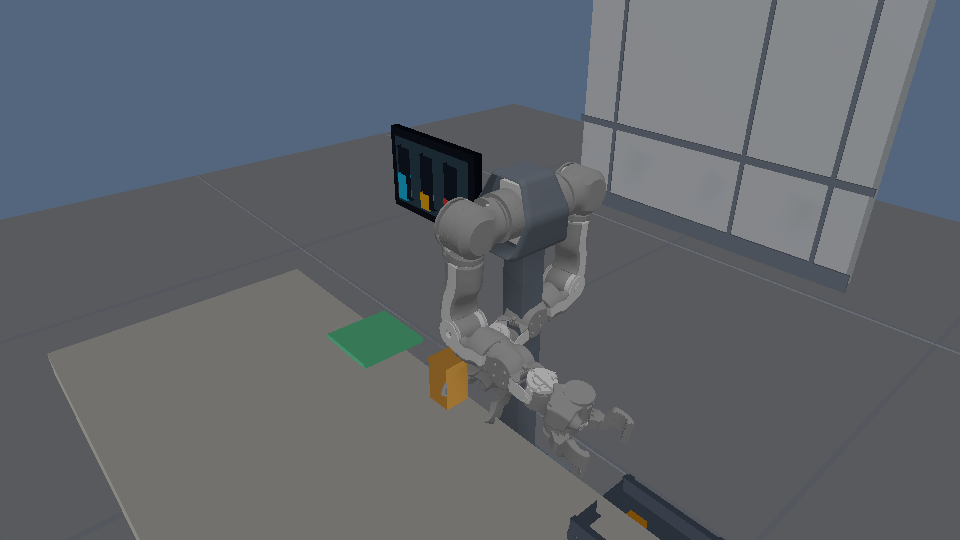
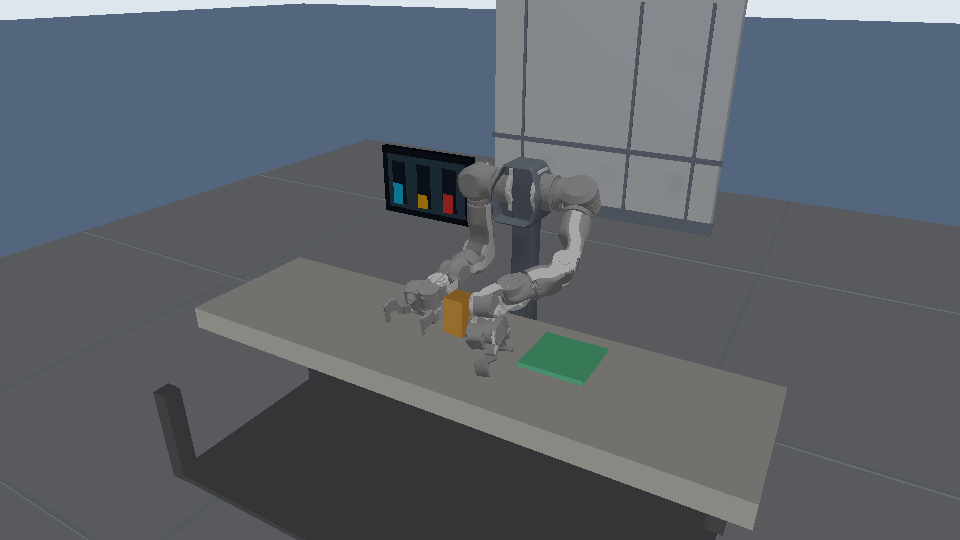
fix: turn the OpenArm torso to face the bench it works at (#338)
The two arm bases sit 6.2 cm apart along world z while the workbench runs
1.45 m along world x, so the shoulder line pointed at the bench and the
arms reached across it sideways. Measured at rest, every link of both
arms sat at x = 0.0000 and the shoulders at z = +-0.0935: the robot stood
square to its own work.

A quarter turn about the vertical fixes the stance and invalidates every
keypose with it, because a pose is a joint vector and the workspace turns
with the robot. All eighteen are re-solved by damped least squares
against the same URDF chain, and the bench, block and pad move with them.

Three things had to be measured rather than assumed:

* Reach. A turned torso gets 0.30 m in front of itself at bench height
  and runs out at 0.35 m, so the bench comes 0.12 m closer and the job
  happens within |x| <= 0.25 m. Probed before anything was changed,
  because none of the rest is worth doing if the arm cannot get there.
* The palm frame is not the grip. Aiming the palm at the block put the
  fingers on its bottom edge and 34 mm short of its centre; the grip sits
  0.1035 m below the palm origin and 0.0335 m ahead of it.
* Joint limits are not optional. Solved without them the left arm wanted
  +0.9 rad from a joint that stops at +0.175, so the servo clamped and
  the palm settled 0.29 m from where the solution said it would. The
  right arm's mirror of that joint runs to +3.3 and was never affected,
  which is why only one arm failed.
[…]

diff --git a/examples/90_showcase_captures/openarm.rs b/examples/90_showcase_captures/openarm.rs
@@ -58,15 +58,15 @@ const JOINT_FEEDBACK_STREAM: StreamId = StreamId::new(9_090);
 // side-on to turn it into visible screen-space width instead.
 const CAMERA: CameraEvidence = CameraEvidence {
     fov_y_rad: std::f64::consts::FRAC_PI_4,
-    yaw_rad: 0.85,
+    yaw_rad: 0.52,
     // Larger pitch is nearer horizontal here. 0.75 looked down steeply enough
     // to flatten the arms onto each other however far apart they actually are;
     // a three-quarter view keeps the near arm in front of the far one rather
     // than on top of it.
-    pitch_rad: 1.08,
+    pitch_rad: 1.14,
     // 1.05 m framed the torso out of the top and pushed the robot against the
     // right edge, leaving most of the image empty table.
-    distance_m: 1.26,
+    distance_m: 1.62,
 };
 
 /// Name of the dynamic block the right arm picks up and the left arm places.
@@ -159,11 +159,16 @@ struct BimanualPose {
 /// two mimicked finger joints.
 type ArmPose = [f64; 9];
 
+// Joint 3's travel stops at +-pi/2 and joint 6's at +-pi/4, and several poses
+// sit exactly on those stops, which is why the constants appear among
+// otherwise unremarkable decimals.
+//
 // Every named pose below is an inverse-kinematics solution against the real
 // OpenArm v2 URDF chain (solved offline; see the module doc comment), so the
 // commanded fingertip midpoint actually lands on the block or the pad instead
-// of an arbitrary joint-space guess. `READY` is the shared tucked resting
-// pose both arms start and end in.
+// of an arbitrary joint-space guess. `READY` is the exception and is authored:
+// it is where the arms rest, and a solved reach held there loads the shoulder
+// hard enough that the servos track it 0.66 rad out.
 const READY_R: ArmPose = [
     0.0,
     0.0,
@@ -176,16 +181,40 @@ const READY_R: ArmPose = [
     -0.55,
 ];
 const HOVER_PICK_R: ArmPose = [
-    0.1520, 1.1987, -0.0588, 1.1824, -0.1735, 0.3151, 1.0023, -0.55, -0.55,
+    1.4826,
+    0.9187,
+    -std::f64::consts::FRAC_PI_2,
+    1.2899,
+    0.0000,
+    0.3712,
+    1.4826,
+    -0.55,
+    -0.55,
 ];
 const PICK_R_OPEN: ArmPose = [
-    0.4922, 0.8083, -0.2360, 0.5538, -0.3318, 0.3847, 0.8179, -0.55, -0.55,
+    1.1619,
+    0.7848,
+    -std::f64::consts::FRAC_PI_2,
+    1.0612,
+    0.0000,
+    0.2765,
+    1.1619,
+    -0.55,
+    -0.55,
 ];
 const PICK_R_CLOSED: ArmPose = [
-    0.6389, 0.8025, -0.2978, 0.4220, -0.3782, 0.4661, 0.9659, -0.08, -0.08,
+    1.1619,
+    0.7848,
+    -std::f64::consts::FRAC_PI_2,
+    1.0612,
+    0.0000,
+    0.2765,
+    1.1619,
+    -0.08,
+    -0.08,
 ];
 const LIFT_R_CLOSED: ArmPose = [
-    0.7663, 1.0899, -0.4171, 0.7954, -0.4356, 0.4834, 1.5374, -0.08, -0.08,
+    1.4601, 0.9184, -1.5345, 1.2899, -0.0236, 0.3711, 1.4975, -0.08, -0.08,
 ];
 // A true mid-air hand-to-hand meet left the two wrists visually fused into
 // one silhouette from the showcase camera, no matter how the elbows were
@@ -197,24 +226,48 @@ const LIFT_R_CLOSED: ArmPose = [
 // and pick it up on its own -- two clearly separated, individually legible
 // pick/place actions instead of one crowded simultaneous one.
 const RIGHT_HOVER_MID_CLOSED: ArmPose = [
-    0.1551,
-    1.5063,
-    -0.9782,
-    2.4435,
-    -0.0384,
-    0.5128,
+    1.4162,
+    0.1250,
+    -1.4569,
+    1.1286,
+    -0.2023,
+    std::f64::consts::FRAC_PI_4,
     std::f64::consts::FRAC_PI_2,
     -0.08,
     -0.08,
 ];
 const RIGHT_MID_CLOSED: ArmPose = [
-    -0.1308, 1.2983, -1.2026, 2.2172, -0.5453, 0.6331, 0.9176, -0.08, -0.08,
+    0.9765,
+    -0.0034,
+    -1.1562,
+    0.8793,
+    -0.6062,
+    std::f64::consts::FRAC_PI_4,
+    1.4308,
+    -0.08,
+    -0.08,
 ];
 const RIGHT_MID_OPEN: ArmPose = [
-    -0.2150, 1.2996, -1.2636, 2.2122, -0.7099, 0.6862, 0.7098, -0.55, -0.55,
+    0.9765,
+    -0.0034,
+    -1.1562,
+    0.8793,
+    -0.6062,
+    std::f64::consts::FRAC_PI_4,
+    1.4308,
+    -0.55,
+    -0.55,
 ];
 const RIGHT_HOVER_MID_OPEN: ArmPose = [
-    0.1214, 1.6356, -1.0521, 2.4435, 0.1017, 0.4521, 1.2856, -0.55, -0.55,
+    1.4162,
+    0.1250,
+    -1.4569,
+    1.1286,
+    -0.2023,
+    std::f64::consts::FRAC_PI_4,
+    std::f64::consts::FRAC_PI_2,
+    -0.55,
+    -0.55,
 ];
 
 const READY_L: ArmPose = [
@@ -229,52 +282,68 @@ const READY_L: ArmPose = [
     0.55,
 ];
 const LEFT_HOVER_MID_OPEN: ArmPose = [
-    0.2118, 0.1745, 1.4439, 1.7356, -0.0055, -0.7345, 0.0178, 0.55, 0.55,
+    -1.4826,
+    -0.1288,
+    std::f64::consts::FRAC_PI_2,
+    1.1286,
+    -0.0000,
+    -std::f64::consts::FRAC_PI_4,
+    -1.4826,
+    0.55,
+    0.55,
 ];
 const LEFT_MID_OPEN: ArmPose = [
-    0.0279, 0.1745, 1.5447, 1.2975, -0.0074, -0.5384, 0.0126, 0.55, 0.55,
+    -0.9765,
+    0.0034,
+    1.1562,
+    0.8793,
+    0.6062,
+    -std::f64::consts::FRAC_PI_4,
+    -1.4308,
+    0.55,
+    0.55,
 ];
 const LEFT_MID_CLOSED: ArmPose = [
-    0.0078, 0.1745, 1.5645, 1.3640, -0.0101, -0.6951, 0.0110, 0.08, 0.08,
+    -0.9765,
+    0.0034,
+    1.1562,
+    0.8793,
+    0.6062,
+    -std::f64::consts::FRAC_PI_4,
+    -1.4308,
+    0.08,
+    0.08,
 ];
 const LEFT_HOVER_MID_CLOSED: ArmPose = [
-    -0.2044,
-    0.1745,
-    std::f64::consts::FRAC_PI_2,
-    1.7663,
-    0.1181,
+    -1.4162,
+    -0.1250,
+    1.4569,
+    1.1286,
+    0.2023,
     -std::f64::consts::FRAC_PI_4,
-    -0.3929,
+    -std::f64::consts::FRAC_PI_2,
     0.08,
     0.08,
 ];
 const HOVER_PLACE_L_CLOSED: ArmPose = [
-    1.0798,
-    0.1745,
-    std::f64::consts::FRAC_PI_2,
-    1.1568,
-    -0.1057,
-    -0.3194,
-    0.3637,
+    -1.3504,
+    -0.9100,
+    1.3566,
+    1.2899,
+    0.1402,
+    -0.3654,
+    -std::f64::consts::FRAC_PI_2,
     0.08,
     0.08,
 ];
 const PLACE_L_CLOSED: ArmPose = [
-    0.7501, 0.1745, 1.5697, 0.8454, -0.1359, -0.0208, 0.0404, 0.08, 0.08,
+    -1.0677, -0.7787, 1.3885, 1.0613, 0.1344, -0.2719, -1.2328, 0.08, 0.08,
 ];
 const PLACE_L_OPEN: ArmPose = [
-    0.7501, 0.1745, 1.5697, 0.8454, -0.1359, -0.0208, 0.0404, 0.55, 0.55,
+    -1.0677, -0.7787, 1.3885, 1.0613, 0.1344, -0.2719, -1.2328, 0.55, 0.55,
 ];
 const HOVER_PLACE_L_OPEN: ArmPose = [
-    1.0798,
-    0.1745,
-    std::f64::consts::FRAC_PI_2,
-    1.1568,
-    -0.1057,
-    -0.3194,
-    0.3637,
-    0.55,
-    0.55,
+    -1.3565, -0.9108, 1.3666, 1.2899, 0.1335, -0.3660, -1.5667, 0.55, 0.55,
 ];
 
 /// Right-arm keyframes: reach out and down to the block, close, lift, carry
@@ -415,7 +484,7 @@ pub fn run(repo_root: &Path, capture: bool) -> Result<ShowcaseMetadata> {
                 // The arms sit at y = 0.698; focusing 0.20 m below them and
                 // 0.25 m along +z put the robot off to one side of its own
                 // showcase. Focus between the shoulders and the work area.
-                focus: Vec3::new(0.0, 0.60, 0.12),
+                focus: Vec3::new(0.0, 0.56, 0.26),
                 yaw_rad: CAMERA.yaw_rad,
                 pitch_rad: CAMERA.pitch_rad,
                 distance_m: CAMERA.distance_m,
